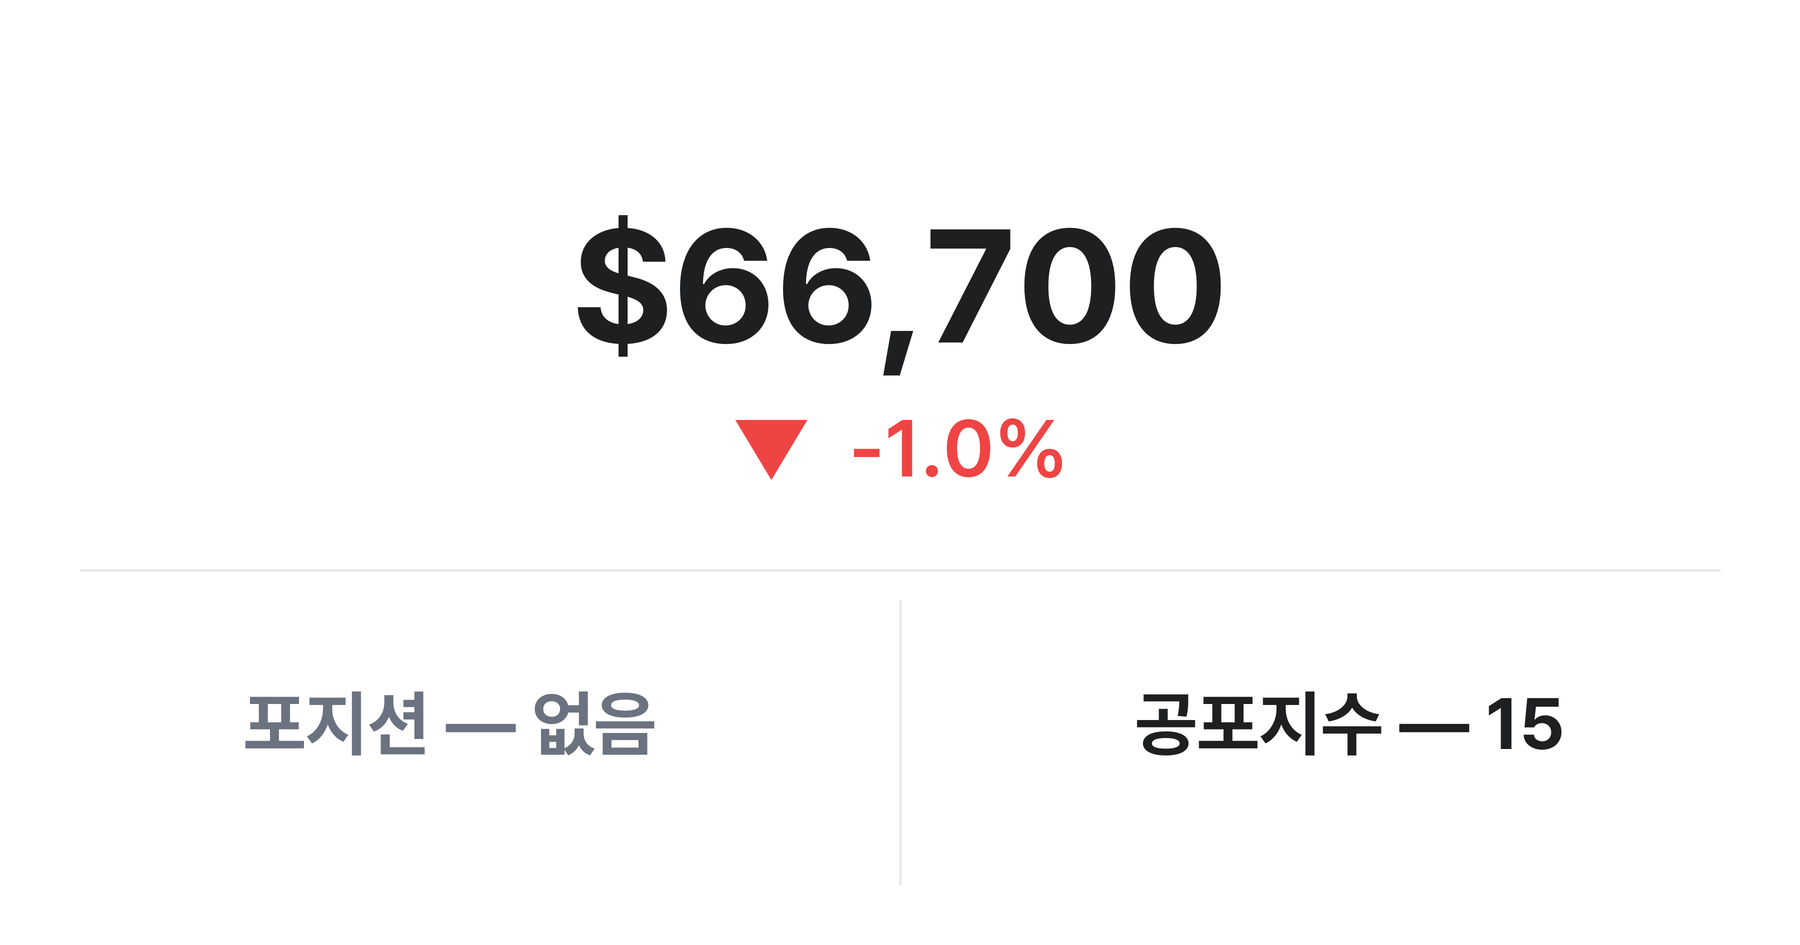
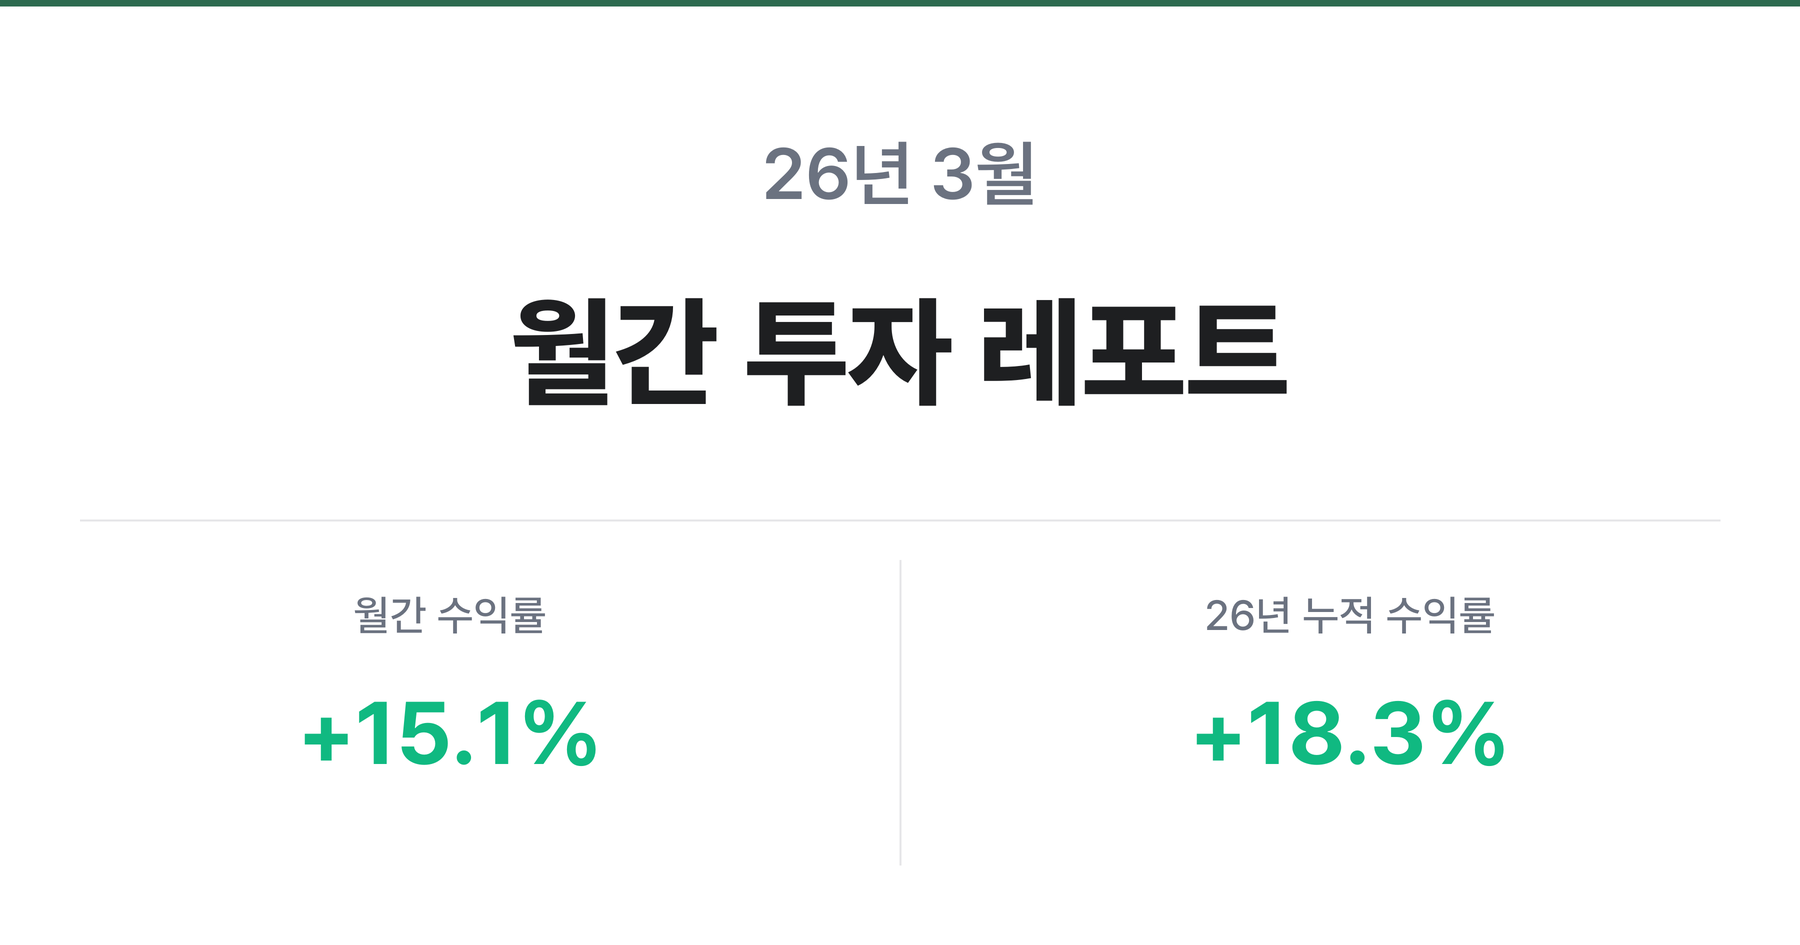
feat: 월간 투자 레포트 전용 대시보드 생성 스크립트 + 3월 썸네일 재생성
- generate_monthly_dashboard.py: 연/월, 월간 수익률, 누적 수익률 표시
- 데일리 대시보드와 동일한 디자인 언어 (Pretendard, 1800x945, 미니멀 화이트)
- SVG + PNG 동시 생성 (cairosvg → Pillow 폴백)

diff --git a/scripts/generate_monthly_dashboard.py b/scripts/generate_monthly_dashboard.py
@@ -1,0 +1,197 @@
+#!/usr/bin/env python3
+"""큐비랩 월간 투자 레포트 대시보드 이미지 생성 (SVG + PNG)
+
+Usage:
+    python generate_monthly_dashboard.py --year 26 --month 3 \
+        --monthly-roi "+15.1%" --cumulative-roi "+18.3%" \
+        --output static/images/posts/2603-monthly-dashboard.svg
+"""
+
+import argparse
+import os
+import re
+import sys
+
+
+def _normalize_roi(raw: str) -> tuple[str, bool]:
+    """수익률 입력을 정규화한다. (부호 + 숫자 + %)"""
+    s = raw.strip().lstrip("\\")
+
+    m = re.match(r'([+-])?\s*([0-9.]+)\s*(%)?$', s)
+    if m:
+        sign = m.group(1) or '+'
+        num = m.group(2)
+        return f"{sign}{num}%", sign == '+'
+
+    print(f"오류: 수익률 형식을 인식할 수 없습니다: '{raw}'", file=sys.stderr)
+    print("  허용 형식: '+15.1%', '-2.5%', '15.1'", file=sys.stderr)
+    sys.exit(1)
+
+
+def generate_monthly_dashboard(year, month, monthly_roi, cumulative_roi, output_path):
+    W, H = 1800, 945
+
+    # === 파생 값 ===
+    monthly_roi_str, monthly_positive = _normalize_roi(monthly_roi)
+    cumulative_roi_str, cumulative_positive = _normalize_roi(cumulative_roi)
+
+    date_label = f"{year}년 {month}월"
+    title_label = "월간 투자 레포트"
+    monthly_label = f"월간 수익률 — {monthly_roi_str}"
+    cumulative_label = f"{year}년 누적 — {cumulative_roi_str}"
+
+    # === 색상 (데일리 대시보드와 동일) ===
+    GREEN = "#10B981"
+    RED = "#EF4444"
+    TEXT_BLACK = "#1E1F21"
+    TEXT_GRAY = "#6B7280"
+    BORDER = "#E6E6E9"
+    ACCENT = "#2d6a4f"
+
+    monthly_color = GREEN if monthly_positive else RED
+    cumulative_color = GREEN if cumulative_positive else RED
+
+    mid_x = W // 2
+
+    svg = f'''<svg xmlns="http://www.w3.org/2000/svg" viewBox="0 0 {W} {H}" width="{W}" height="{H}">
+  <defs>
+    <style>
+      @import url('https://cdn.jsdelivr.net/gh/orioncactus/pretendard@v1.3.9/dist/web/static/pretendard.min.css');
+      text {{ font-family: 'Pretendard', sans-serif; }}
+    </style>
+  </defs>
+
+  <!-- 배경 -->
+  <rect width="{W}" height="{H}" fill="#FFFFFF"/>
+
+  <!-- 상단 악센트 라인 -->
+  <rect x="0" y="0" width="{W}" height="6" fill="{ACCENT}"/>
+
+  <!-- 날짜 (상단) -->
+  <text x="{mid_x}" y="200" text-anchor="middle"
+        font-size="72" font-weight="600" fill="{TEXT_GRAY}">
+    {date_label}
+  </text>
+
+  <!-- 제목 (중앙) -->
+  <text x="{mid_x}" y="400" text-anchor="middle"
+        font-size="120" font-weight="800" fill="{TEXT_BLACK}">
+    {title_label}
+  </text>
+
+  <!-- 구분선 -->
+  <line x1="80" y1="520" x2="{W - 80}" y2="520"
+        stroke="{BORDER}" stroke-width="2"/>
+
+  <!-- 세로 구분선 -->
+  <line x1="{mid_x}" y1="570" x2="{mid_x}" y2="{H - 80}"
+        stroke="{BORDER}" stroke-width="2"/>
+
+  <!-- 월간 수익률 (좌) -->
+  <text x="{mid_x // 2}" y="680" text-anchor="middle"
+        font-size="42" font-weight="500" fill="{TEXT_GRAY}">
+    월간 수익률
+  </text>
+  <text x="{mid_x // 2}" y="800" text-anchor="middle"
+        font-size="88" font-weight="700" fill="{monthly_color}">
+    {monthly_roi_str}
+  </text>
+
+  <!-- 누적 수익률 (우) -->
+  <text x="{mid_x + mid_x // 2}" y="680" text-anchor="middle"
+        font-size="42" font-weight="500" fill="{TEXT_GRAY}">
+    {year}년 누적 수익률
+  </text>
+  <text x="{mid_x + mid_x // 2}" y="800" text-anchor="middle"
+        font-size="88" font-weight="700" fill="{cumulative_color}">
+    {cumulative_roi_str}
+  </text>
+</svg>'''
+
+    os.makedirs(os.path.dirname(output_path), exist_ok=True)
+
+    # SVG 저장
+    svg_path = output_path
+    if svg_path.endswith('.png'):
+        svg_path = svg_path.replace('.png', '.svg')
+
+    with open(svg_path, 'w', encoding='utf-8') as f:
+        f.write(svg)
+    print(f"저장 완료: {svg_path}")
+
+    # PNG 폴백 (OG 이미지용)
+    png_path = svg_path.replace('.svg', '.png')
+    try:
+        import cairosvg
+        cairosvg.svg2png(bytestring=svg.encode('utf-8'),
+                         write_to=png_path, output_width=W, output_height=H)
+        print(f"저장 완료: {png_path}")
+    except ImportError:
+        from PIL import Image, ImageDraw, ImageFont
+        FONT_DIR = os.path.expanduser("~/Library/Fonts")
+        img = Image.new("RGB", (W * 2, H * 2), "#FFFFFF")
+        draw = ImageDraw.Draw(img)
+
+        fp_date = ImageFont.truetype(os.path.join(FONT_DIR, "Pretendard-SemiBold.otf"), 144)
+        fp_title = ImageFont.truetype(os.path.join(FONT_DIR, "Pretendard-ExtraBold.otf"), 240)
+        fp_label = ImageFont.truetype(os.path.join(FONT_DIR, "Pretendard-Medium.otf"), 84)
+        fp_roi = ImageFont.truetype(os.path.join(FONT_DIR, "Pretendard-Bold.otf"), 176)
+
+        def cx(text, font):
+            bb = draw.textbbox((0, 0), text, font=font)
+            return (W * 2 - (bb[2] - bb[0])) // 2
+
+        def cx_half(text, font, half):
+            """half=0: left half, half=1: right half"""
+            bb = draw.textbbox((0, 0), text, font=font)
+            tw = bb[2] - bb[0]
+            if half == 0:
+                return (W - tw) // 2
+            else:
+                return W + (W - tw) // 2
+
+        # 상단 악센트 라인
+        draw.rectangle([(0, 0), (W * 2, 12)], fill=ACCENT)
+
+        # 날짜
+        draw.text((cx(date_label, fp_date), 260), date_label,
+                  fill=TEXT_GRAY, font=fp_date)
+
+        # 제목
+        draw.text((cx(title_label, fp_title), 560), title_label,
+                  fill=TEXT_BLACK, font=fp_title)
+
+        # 구분선
+        ly = 1040
+        draw.line([(160, ly), (W * 2 - 160, ly)], fill=BORDER, width=4)
+        draw.line([(W, ly + 80), (W, H * 2 - 160)], fill=BORDER, width=4)
+
+        # 월간 수익률 (좌)
+        draw.text((cx_half("월간 수익률", fp_label, 0), 1180), "월간 수익률",
+                  fill=TEXT_GRAY, font=fp_label)
+        draw.text((cx_half(monthly_roi_str, fp_roi, 0), 1360), monthly_roi_str,
+                  fill=monthly_color, font=fp_roi)
+
+        # 누적 수익률 (우)
+        cum_label = f"{year}년 누적 수익률"
+        draw.text((cx_half(cum_label, fp_label, 1), 1180), cum_label,
+                  fill=TEXT_GRAY, font=fp_label)
+        draw.text((cx_half(cumulative_roi_str, fp_roi, 1), 1360), cumulative_roi_str,
+                  fill=cumulative_color, font=fp_roi)
+
+        img = img.resize((W, H), Image.LANCZOS)
+        img.save(png_path, "PNG", optimize=True)
+        print(f"저장 완료: {png_path}")
+
+
+if __name__ == "__main__":
+    parser = argparse.ArgumentParser(description="큐비랩 월간 투자 레포트 대시보드 이미지 생성")
+    parser.add_argument("--year", required=True, help="연도 (2자리, 예: '26')")
+    parser.add_argument("--month", required=True, help="월 (예: '3')")
+    parser.add_argument("--monthly-roi", required=True, help="월간 수익률 (예: '+15.1%%')")
+    parser.add_argument("--cumulative-roi", required=True, help="연간 누적 수익률 (예: '+18.3%%')")
+    parser.add_argument("--output", required=True, help="출력 파일 경로 (.svg 또는 .png)")
+
+    args = parser.parse_args()
+    generate_monthly_dashboard(args.year, args.month,
+                               args.monthly_roi, args.cumulative_roi, args.output)
